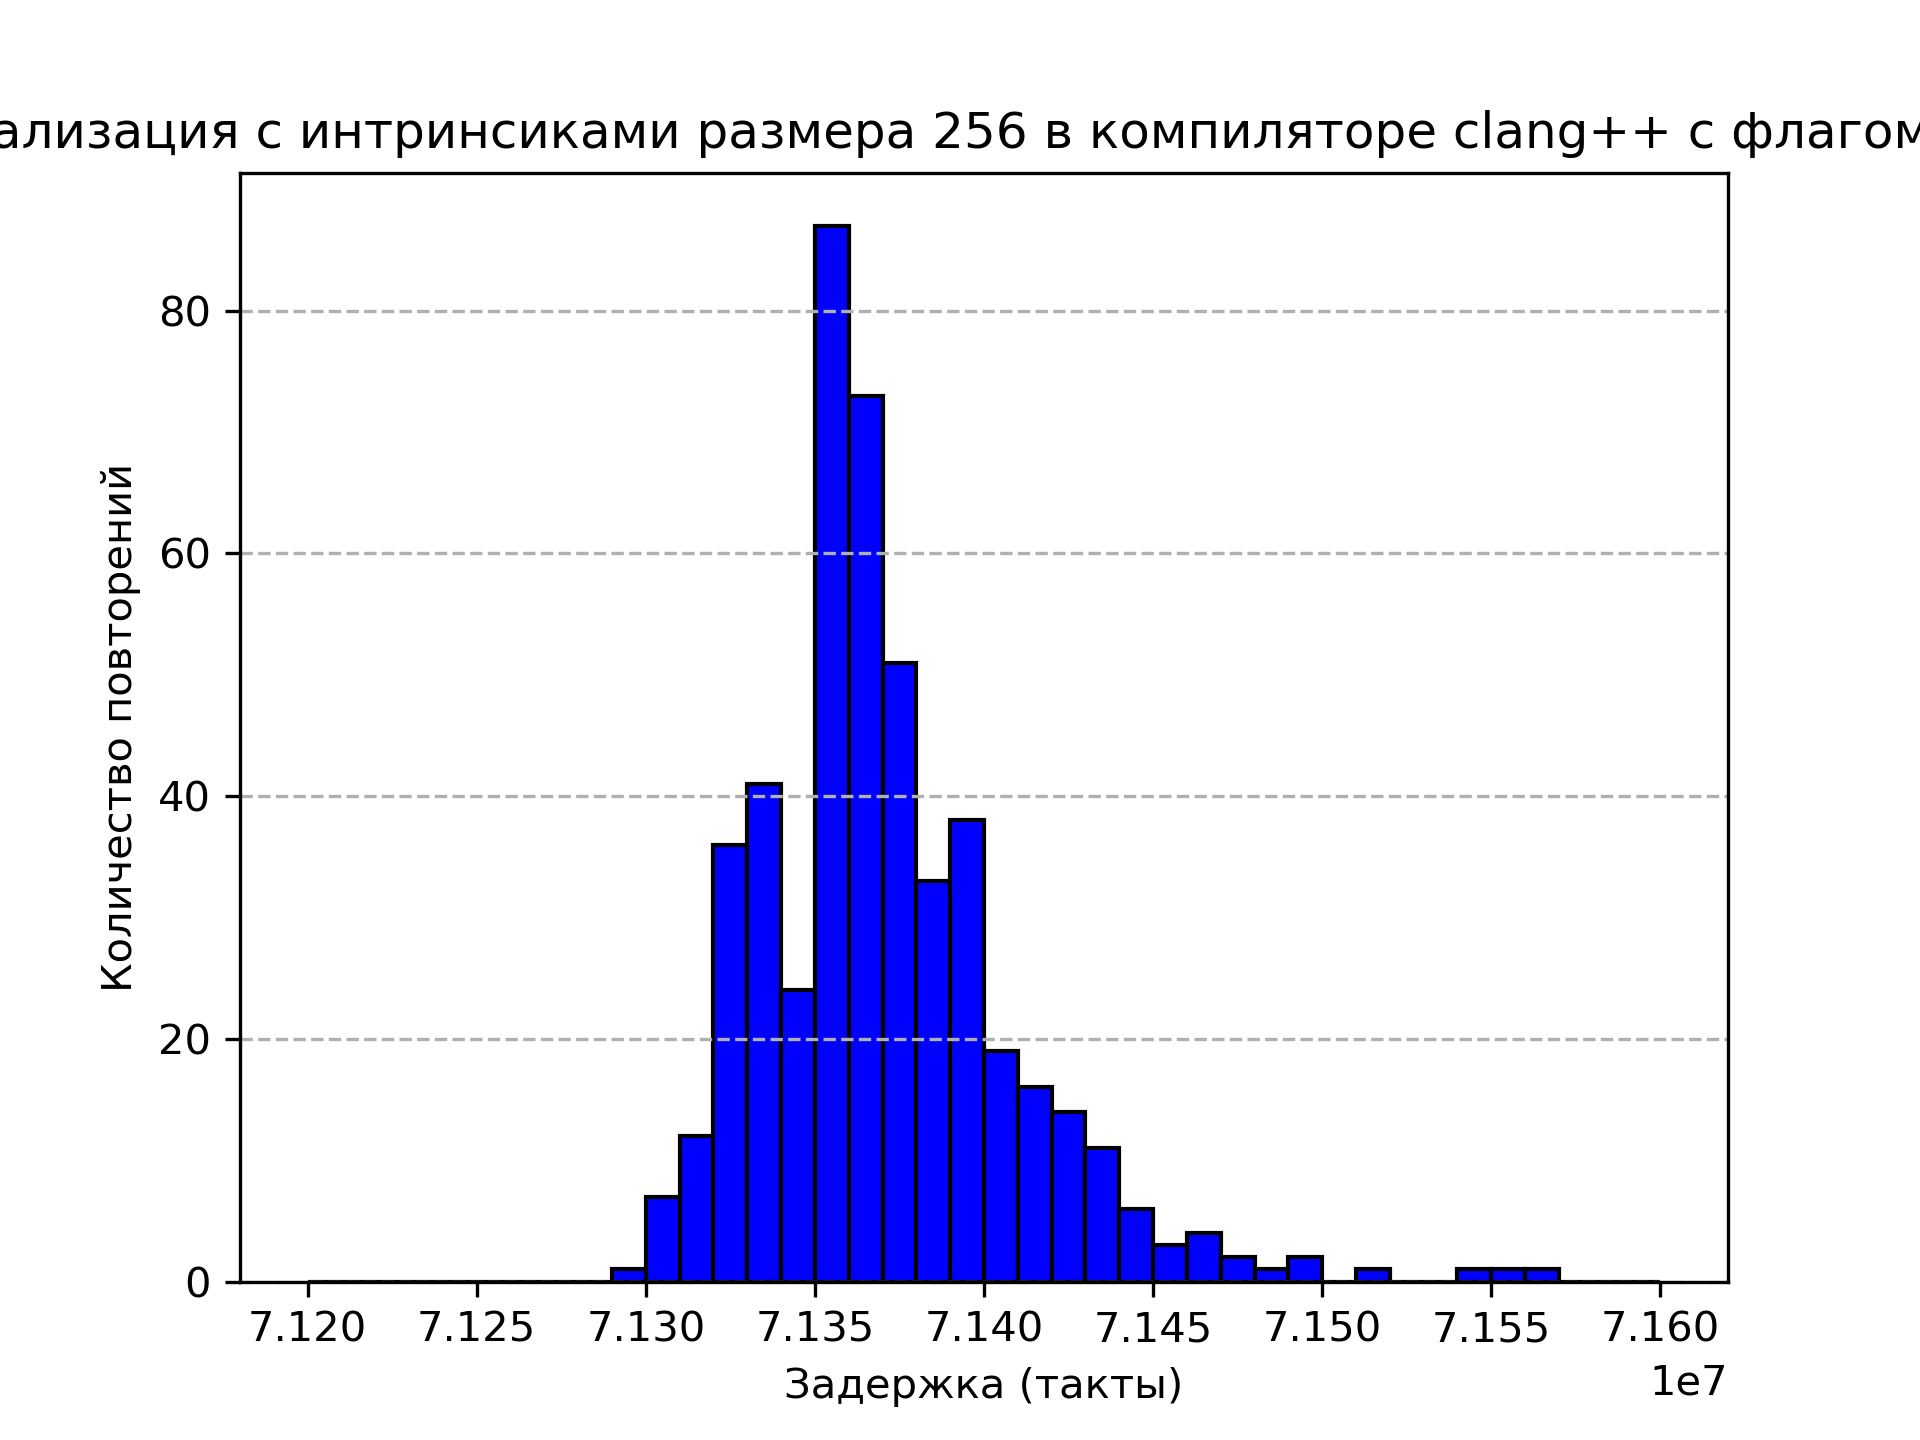
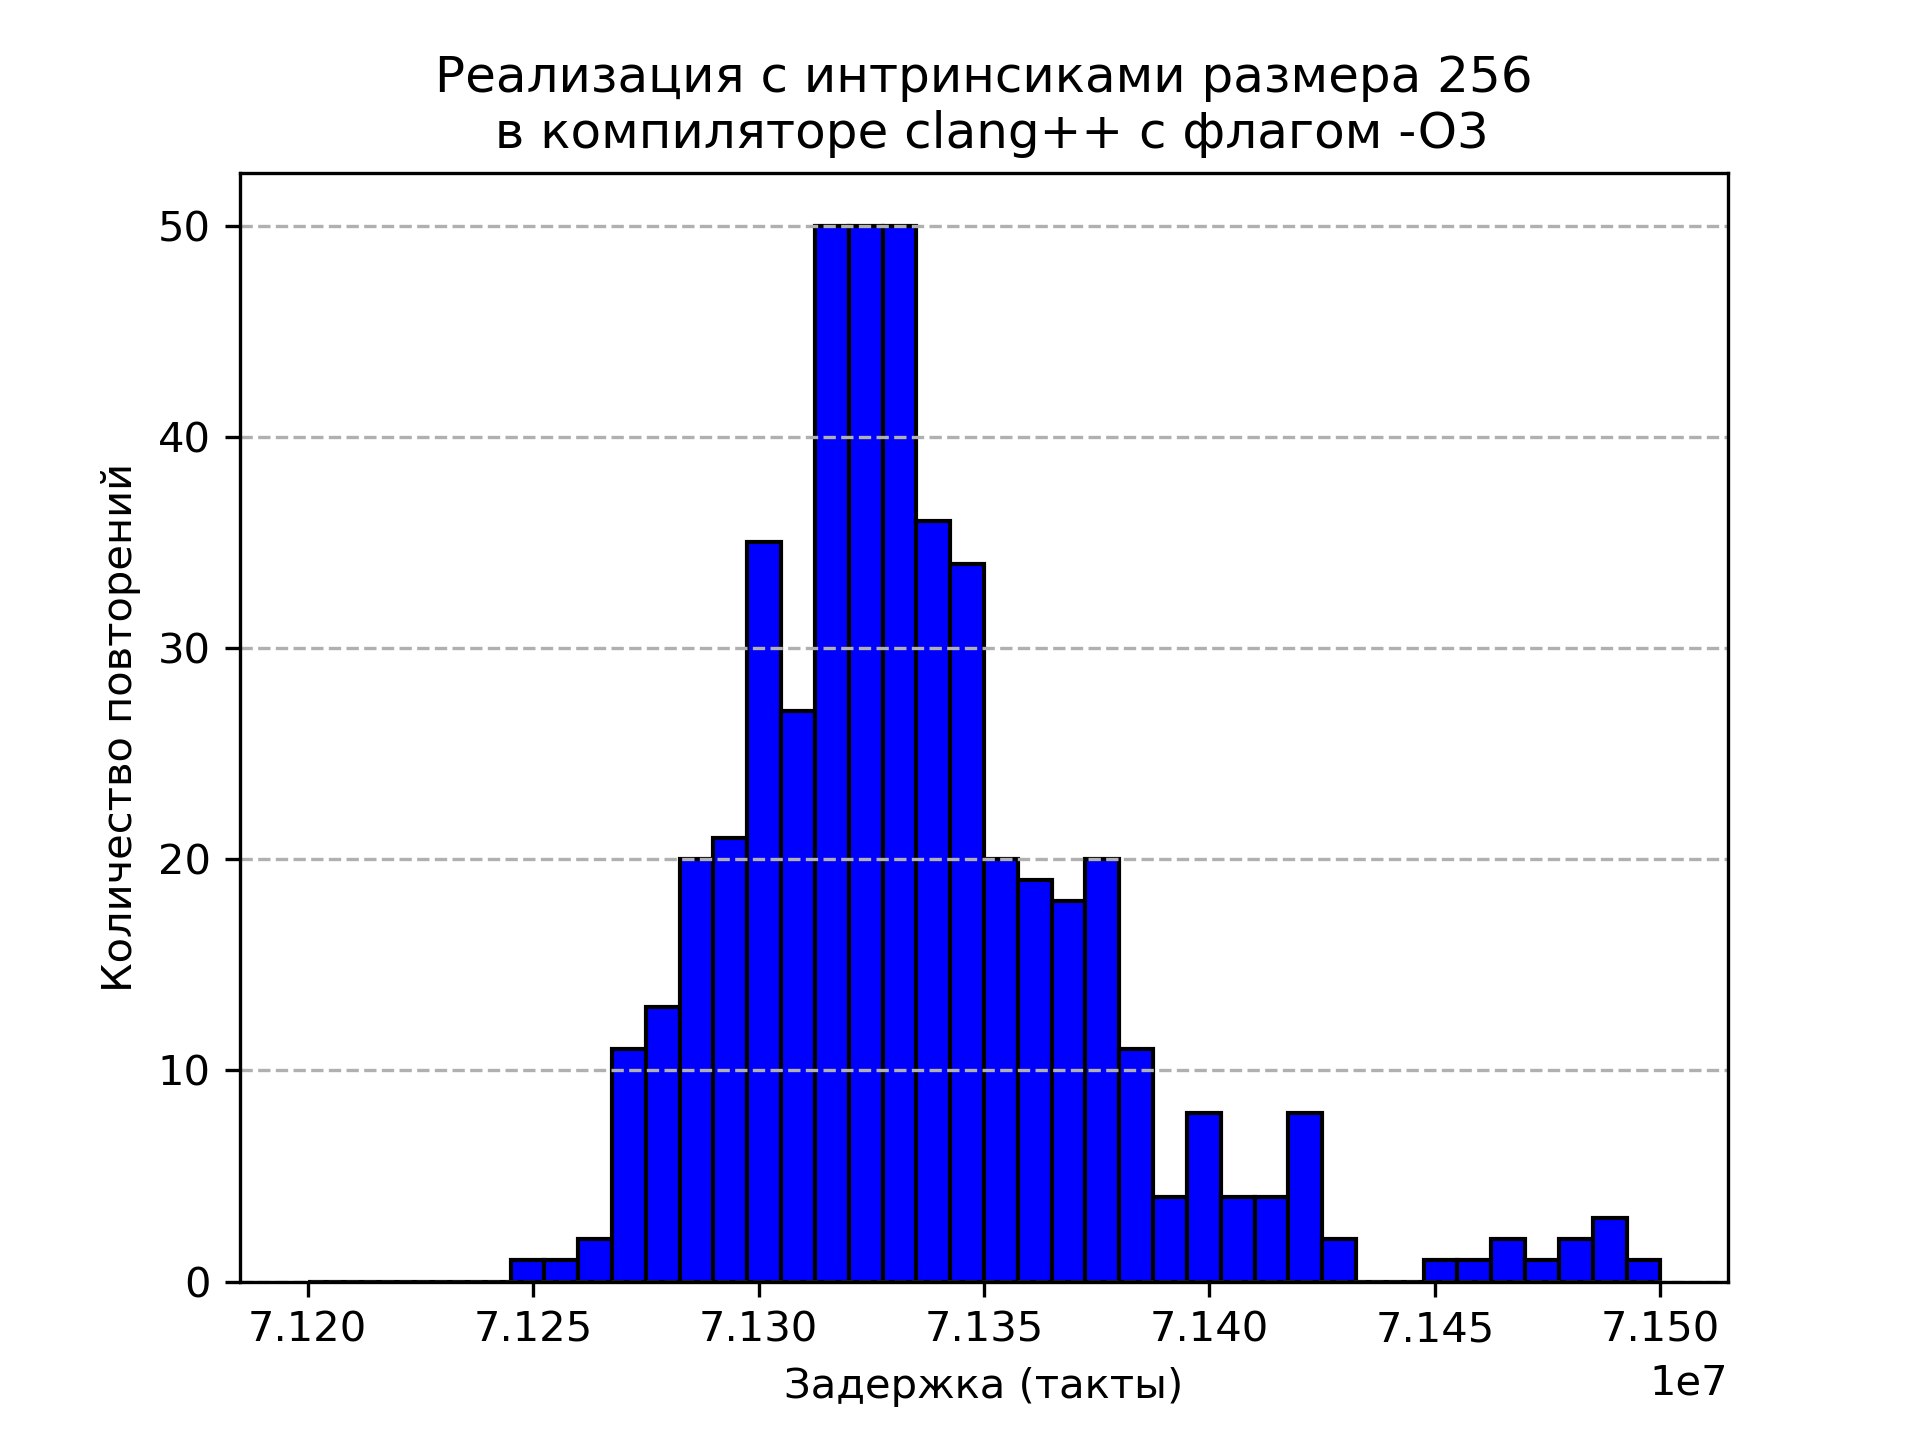
README Update

diff --git a/draw_diagram.py b/draw_diagram.py
@@ -12,114 +12,145 @@ iter_num = 1000
 version_num = 0
 delta = [0, 0, 0, 0]
 frequency = 2000000000
+avg = [0, 0, 0, 0]
 
-file_names = ['data/plot_Naive_G++_O3.png',
-              'data/plot_Array_G++_O3.png',
-              'data/plot_256_G++_O3.png',
-              'data/plot_256_full_pipeline_G++_O3.png']
+file_names = ['data/plot_Naive_clang++_O2.png',
+              'data/plot_Array_clang++_O2.png',
+              'data/plot_256_clang++_O3.png',
+              'data/plot_256_full_pipeline_clang++_O2.png']
 graph_names = ['Наивная реализация',
                'Реализация на массивах',
                'Реализация с интринсиками размера 256 бит',
                'Реализация с интринсиками размера 256 бит с полным конвейером']
 
-with open('Output_1_2.txt', 'r') as f:
-   data = [float(line.strip()) for line in f]
+# with open('Output_1_bolt.txt', 'r') as f:
+#    data = [float(line.strip()) for line in f]
+#
+# version_num = 0
+# plt.hist(data [250 : 751], bins = 40, color = 'blue', edgecolor = 'black')# range= (3.955*10**8, 3.975*10**8))
+# plt.grid(axis='y', linestyle='--')
+# plt.title("Наивная версия в компиляторе G++ с флагом -O2 с LLVM bolt")
+# plt.xlabel('Задержка (такты)')
+# plt.ylabel('Количество повторений')
+# plt.savefig(file_names [version_num], dpi = 300)
+# plt.clf ()
+#
+# for i in range (250, 751):
+#     avg[version_num] += data [i]
+# avg[version_num] /= 500
+#
+# for i in range (250, 751):
+#     delta [version_num] += (avg [version_num] - data [i])**2
+# delta [version_num] /= 500
+# delta [version_num] = m.sqrt (delta [version_num])
+#
+# print ('Величина равна ', avg [version_num], ' а погрешность ',version_num,' версии равна ', int (round_significant (delta [version_num])))
+#
+# with open('Output_2_bolt.txt', 'r') as f:
+#    data = [float(line.strip()) for line in f]
+#
+# version_num = 1
+# plt.hist(data [250 : 751], bins = 40, color = 'blue', edgecolor = 'black')# range= (1.450*10**8, 1.475*10**8))
+# plt.grid(axis='y', linestyle='--')
+# plt.title("Реализация на массивах в компиляторе G++ с флагом -O2 с LLVM bolt")
+# plt.xlabel('Задержка (такты)')
+# plt.ylabel('Количество повторений')
+# plt.savefig(file_names [version_num], dpi = 300)
+# plt.clf ()
+#
+# for i in range (250, 751):
+#     avg[version_num] += data [i]
+# avg[version_num] /= 500
+#
+# for i in range (250, 751):
+#     delta [version_num] += (avg [version_num] - data [i])**2
+# delta [version_num] /= 500
+# delta [version_num] = m.sqrt (delta [version_num])
+#
+# print ('Величина равна ', avg [version_num], ' а погрешность ',version_num,' версии равна ', int (round_significant (delta [version_num])))
 
-version_num = 0
-plt.hist(data [250 : 751], bins = 40, color = 'blue', edgecolor = 'black', range= (3.955*10**8, 3.975*10**8))
-plt.grid(axis='y', linestyle='--')
-plt.title("Наивная версия в компиляторе G++ с флагом -O3")
-plt.xlabel('Задержка (такты)')
-plt.ylabel('Количество повторений')
-plt.savefig(file_names [version_num], dpi = 300)
-plt.clf ()
+# with open('Output_3_clang_2.txt', 'r') as f:
+#    data = [float(line.strip()) for line in f]
+#
+# version_num = 2
+# plt.hist(data [250 : 751], bins = 40, color = 'blue', edgecolor = 'black',range= (7.120*10**7, 7.150*10**7))
+# plt.grid(axis='y', linestyle='--')
+# plt.title("Реализация с интринсиками размера 256\n в компиляторе clang++ с флагом -O3")
+# plt.xlabel('Задержка (такты)')
+# plt.ylabel('Количество повторений')
+# plt.savefig(file_names [version_num], dpi = 300)
+# plt.clf ()
+#
+# for i in range (250, 751):
+#     avg[version_num] += data [i]
+# avg[version_num] /= 500
+#
+# for i in range (250, 751):
+#     delta [version_num] += (avg [version_num] - data [i])**2
+# delta [version_num] /= 500
+# delta [version_num] = m.sqrt (delta [version_num])
+#
+# print ('Величина равна ', avg [version_num], ' а погрешность ',version_num,' версии равна ', int (round_significant (delta [version_num])))
 
-avg = [0, 0, 0, 0]
-for i in range (250, 751):
-    avg[version_num] += data [i]
-avg[version_num] /= 500
+# with open('Output_4_clang_O3.txt', 'r') as f:
+#    data = [float(line.strip()) for line in f]
 
-for i in range (250, 751):
-    delta [version_num] += (avg [version_num] - data [i])**2
-delta [version_num] /= 500
-delta [version_num] = m.sqrt (delta [version_num])
+# version_num = 3
+# plt.hist(data [250 : 751], bins = 40, color = 'blue', edgecolor = 'black', range= (4.45*10**7, 4.55*10**7))
+# plt.grid(axis='y', linestyle='--')
+# plt.title("Реализация с интринсиками размера 256 бит с полным конвейером\nв компиляторе clang++ с флагом -O2")
+# plt.xlabel('Задержка (такты)')
+# plt.ylabel('Количество повторений')
+# plt.savefig(file_names [version_num], dpi = 300)
+# plt.clf ()
+#
+# for i in range (250, 751):
+#     avg[version_num] += data [i]
+# avg[version_num] /= 500
+#
+# for i in range (250, 751):
+#     delta [version_num] += (avg [version_num] - data [i])**2
+# delta [version_num] /= 500
+# delta [version_num] = m.sqrt (delta [version_num])
+#
+# print ('Величина равна ', avg [version_num], ' а погрешность ',version_num,' версии равна ', int (round_significant (delta [version_num])))
 
-print ('Величина равна ', avg [version_num], ' а погрешность ',version_num,' версии равна ', int (round_significant (delta [version_num])))
-
-with open('Output_2_2.txt', 'r') as f:
-   data = [float(line.strip()) for line in f]
-
-version_num = 1
-plt.hist(data [250 : 751], bins = 40, color = 'blue', edgecolor = 'black', range= (1.450*10**8, 1.475*10**8))
-plt.grid(axis='y', linestyle='--')
-plt.title("Реализация на массивах в компиляторе G++ с флагом -O3")
-plt.xlabel('Задержка (такты)')
-plt.ylabel('Количество повторений')
-plt.savefig(file_names [version_num], dpi = 300)
-plt.clf ()
-
-for i in range (250, 751):
-    avg[version_num] += data [i]
-avg[version_num] /= 500
-
-for i in range (250, 751):
-    delta [version_num] += (avg [version_num] - data [i])**2
-delta [version_num] /= 500
-delta [version_num] = m.sqrt (delta [version_num])
-
-print ('Величина равна ', avg [version_num], ' а погрешность ',version_num,' версии равна ', int (round_significant (delta [version_num])))
-
-with open('Output_3_2.txt', 'r') as f:
-   data = [float(line.strip()) for line in f]
-
-version_num = 2
-plt.hist(data [250 : 751], bins = 40, color = 'blue', edgecolor = 'black', range= (6.500*10**7, 6.575*10**7))
-plt.grid(axis='y', linestyle='--')
-plt.title("Реализация с интринсиками размера 256\n в компиляторе G++ с флагом -O3")
-plt.xlabel('Задержка (такты)')
-plt.ylabel('Количество повторений')
-plt.savefig(file_names [version_num], dpi = 300)
-plt.clf ()
-
-for i in range (250, 751):
-    avg[version_num] += data [i]
-avg[version_num] /= 500
-
-for i in range (250, 751):
-    delta [version_num] += (avg [version_num] - data [i])**2
-delta [version_num] /= 500
-delta [version_num] = m.sqrt (delta [version_num])
-
-print ('Величина равна ', avg [version_num], ' а погрешность ',version_num,' версии равна ', int (round_significant (delta [version_num])))
-
-with open('Output_4_2.txt', 'r') as f:
-   data = [float(line.strip()) for line in f]
-
-version_num = 3
-plt.hist(data [250 : 751], bins = 40, color = 'blue', edgecolor = 'black', range= (4.05*10**7, 4.125*10**7))
-plt.grid(axis='y', linestyle='--')
-plt.title("Реализация с интринсиками размера 256 бит с полным конвейером\nв компиляторе G++ с флагом -O3")
-plt.xlabel('Задержка (такты)')
-plt.ylabel('Количество повторений')
-plt.savefig(file_names [version_num], dpi = 300)
-plt.clf ()
-
-for i in range (250, 751):
-    avg[version_num] += data [i]
-avg[version_num] /= 500
-
-for i in range (250, 751):
-    delta [version_num] += (avg [version_num] - data [i])**2
-delta [version_num] /= 500
-delta [version_num] = m.sqrt (delta [version_num])
-
-print ('Величина равна ', avg [version_num], ' а погрешность ',version_num,' версии равна ', int (round_significant (delta [version_num])))
+avg = [1, 3.84, 6.08, 9.71]
 
 plt.bar (['Naive', 'Array', 'SIMD 256', 'SIMD 256\nFull Pipeline'], avg)
-plt.ylabel ('Задержка одного кадра (такты)')
+plt.ylabel ('Ускорение программы в зависимости\n от способа оптимизации в разах\n относительно наивной версии')
+plt.title("Компилятор G++ с флагом -O2")
+
+plt.savefig("data/g++_O3.png", dpi = 300)
+plt.clf()
+
+avg = [1, 2.71, 6.08, 9.7]
+
+plt.bar (['Naive', 'Array', 'SIMD 256', 'SIMD 256\nFull Pipeline'], avg)
+plt.ylabel ('Ускорение программы в зависимости\n от способа оптимизации в разах\n относительно наивной версии')
+plt.title("Компилятор G++ с флагом -O3")
+
+plt.savefig("data/g++_O3.png", dpi = 300)
+plt.clf()
+
+avg = [1, 3.30, 5.46, 8.6]
+
+plt.bar (['Naive', 'Array', 'SIMD 256', 'SIMD 256\nFull Pipeline'], avg)
+plt.ylabel ('Ускорение программы в зависимости\n от способа оптимизации в разах\n относительно наивной версии')
+plt.title("Компилятор clang++ с флагом -O2")
+
+plt.savefig("data/clang++_O2.png", dpi = 300)
+plt.clf()
+
+avg = [1, 3.30, 5.45, 8.69]
+
+plt.bar (['Naive', 'Array', 'SIMD 256', 'SIMD 256\nFull Pipeline'], avg)
+plt.ylabel ('Ускорение программы в зависимости\n от способа оптимизации в разах\n относительно наивной версии')
 plt.title("Компилятор clang++ с флагом -O3")
-# plt.xticks(rotation=45)
-plt.savefig("g++_O3.png", dpi = 300)
+
+plt.savefig("data/clang++_O3.png", dpi = 300)
+
+
 # with open('Output_4.txt', 'r') as f:
 #    data = [float(line.strip()) for line in f]
 #

diff --git a/README.md b/README.md
@@ -441,6 +441,31 @@ sudo cpupower frequency-set -g ondemand
 <table>
     <thead>
         <tr>
+            <th align="center" colspan = 2>Характеристики экспериментальной установки</th>
+        </tr>
+    </thead>
+    <tbody>
+        <tr>
+            <td align="center">Характеристика</td>
+            <td align="center">Описание/величина</td>
+        </tr>
+        <tr>
+            <td align="center">ОС</td>
+            <td align="center">Ubuntu 24.04.2 LTS <p>
+            Версия ядра 6.11.0-21-generic</td>
+        </tr>
+        <tr>
+            <td align="center">Процессор</td>
+            <td align="center">AMD Ryzen 7 7730U with Radeon Graphics
+            <p>
+            16 ядер</td>
+        </tr>
+    </tbody>
+</table>
+
+<table>
+    <thead>
+        <tr>
             <th align="center" >Реализация</th>
             <th align="center" colspan = 4>Средняя задержка, потраченная на обработку одного кадра, в тактах *10<sup>7</sup> в зависимости от компилятора и флага оптимизации</th>
         </tr>
@@ -589,3 +614,5 @@ sudo cpupower frequency-set -g ondemand
 Приведённые оптимизации не ускоряют программу ровно в 4, в случае с оптимизацией на массивах, и ровно в 8, в случае с оптимизацией с интринсиками, так как есть некоторые участки функции, где нет оптимизированных вычислений, то есть время, потраченное на их обработку, всегда будет входить в измерения.
 
 Однако, данные способы помогают ускорить программу до 9.7 раз, что означает, что не стоит пренебрегать ими.
+
+Как и ожидалось, оптимизация с использованием массивов даст прирост примерно в 3 раза (в идеальной ситуации эта величина была бы равна 4, так как массивы состояли из 4 элементов). Оптимизация с использованием SIMD инструкций ускорила программу ещё в 2 раза, так как использовались инструкции для обработки сразу 8 чисел, а реализация с развёрткой цикла ускорила программу ещё в полтора раза, так как она позволила полностью загрузить конвейер.
